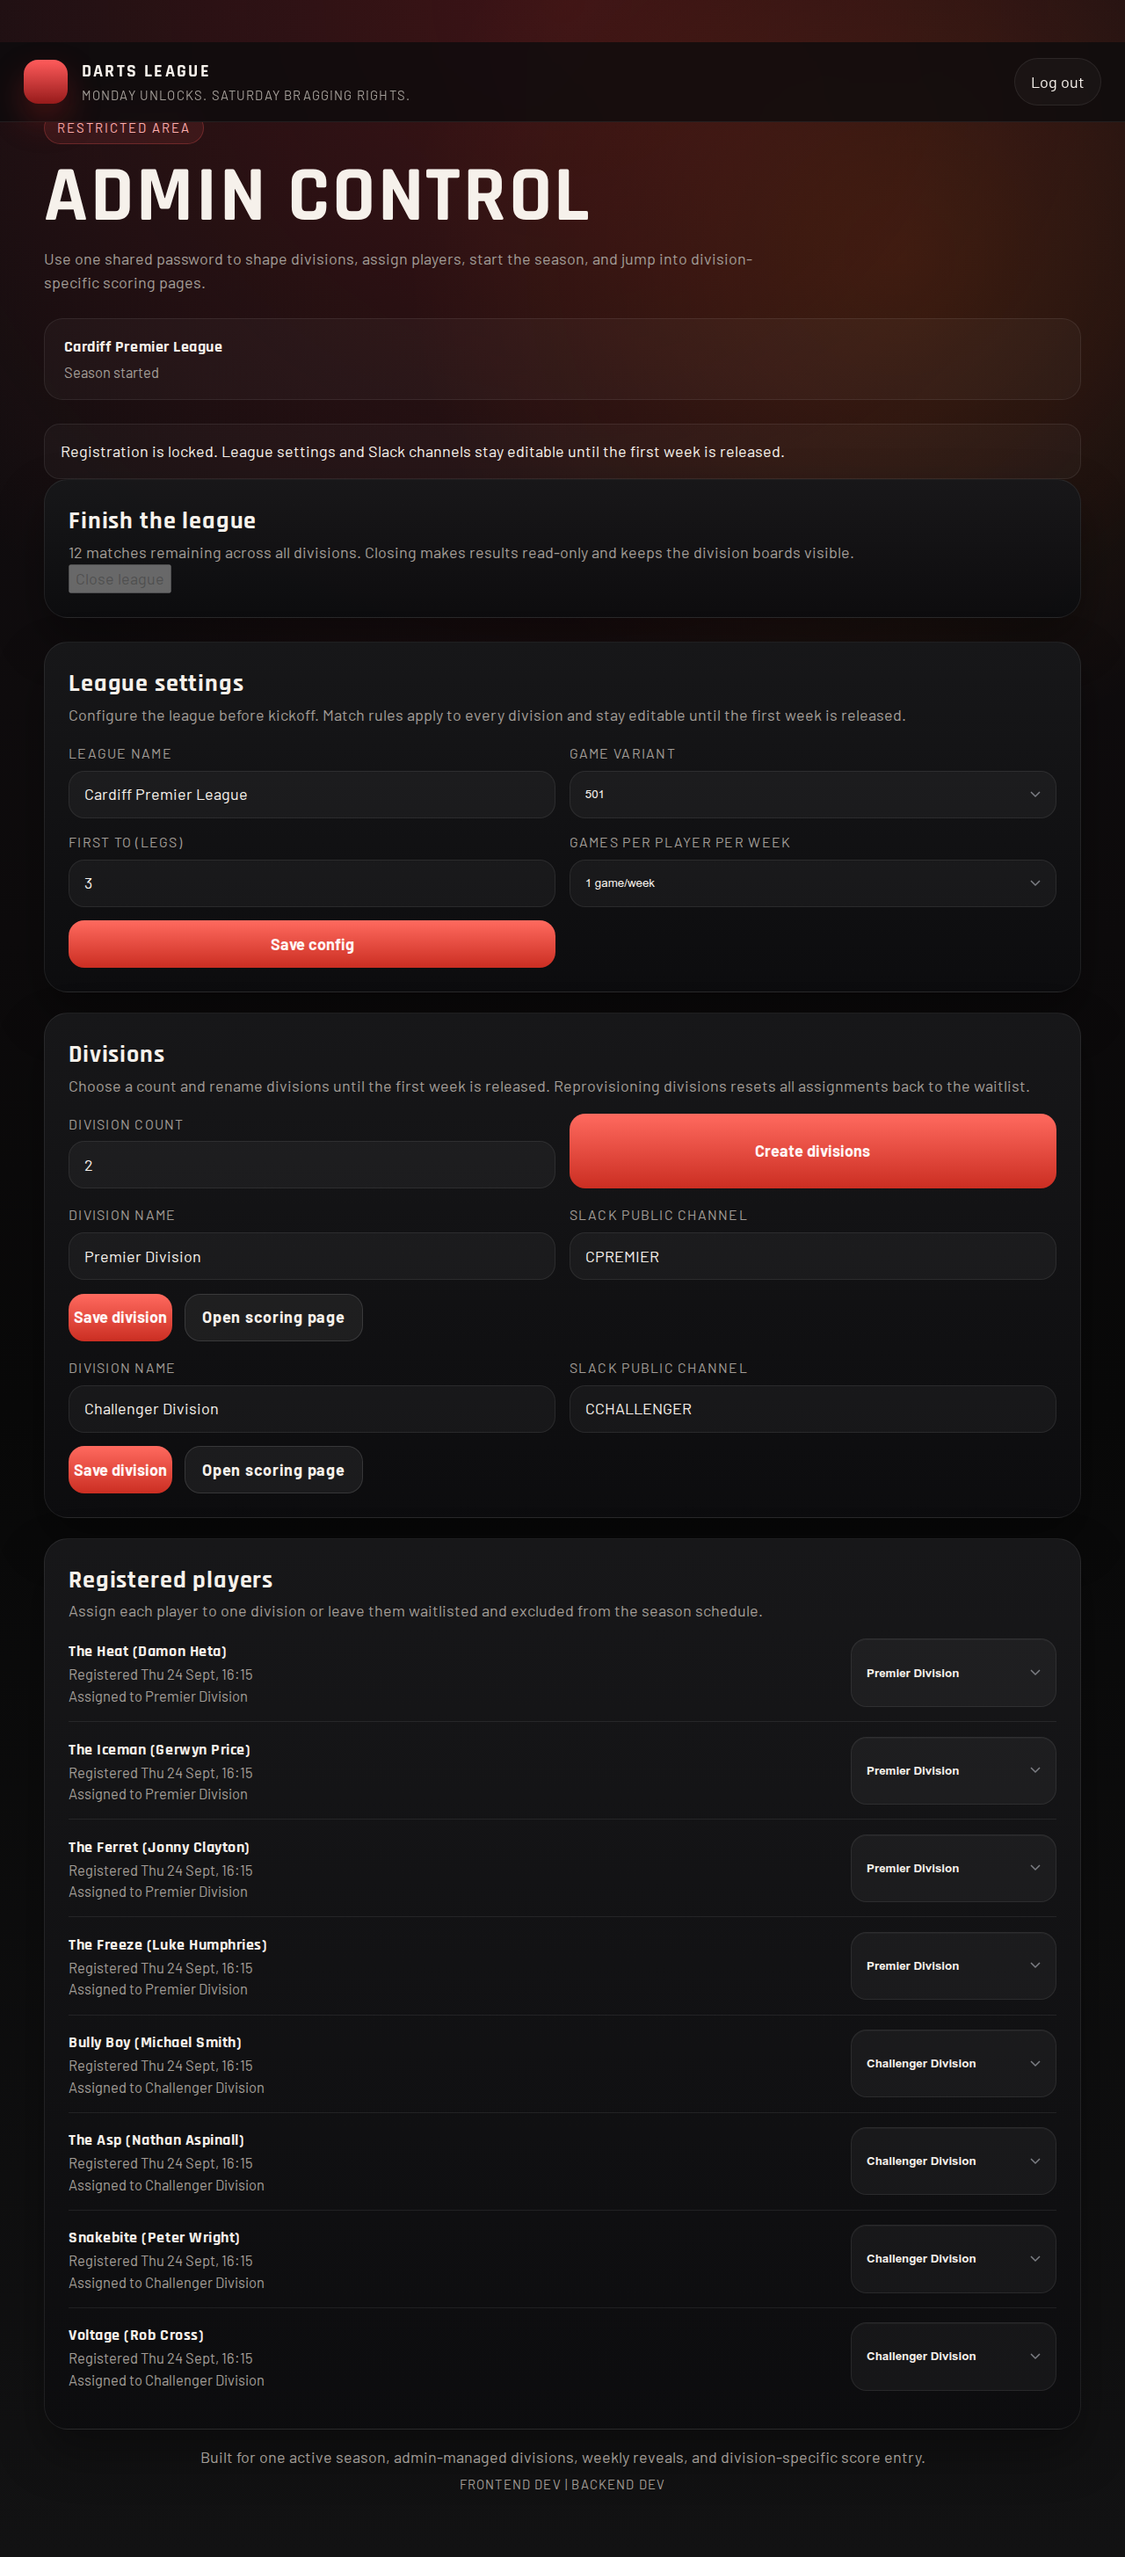
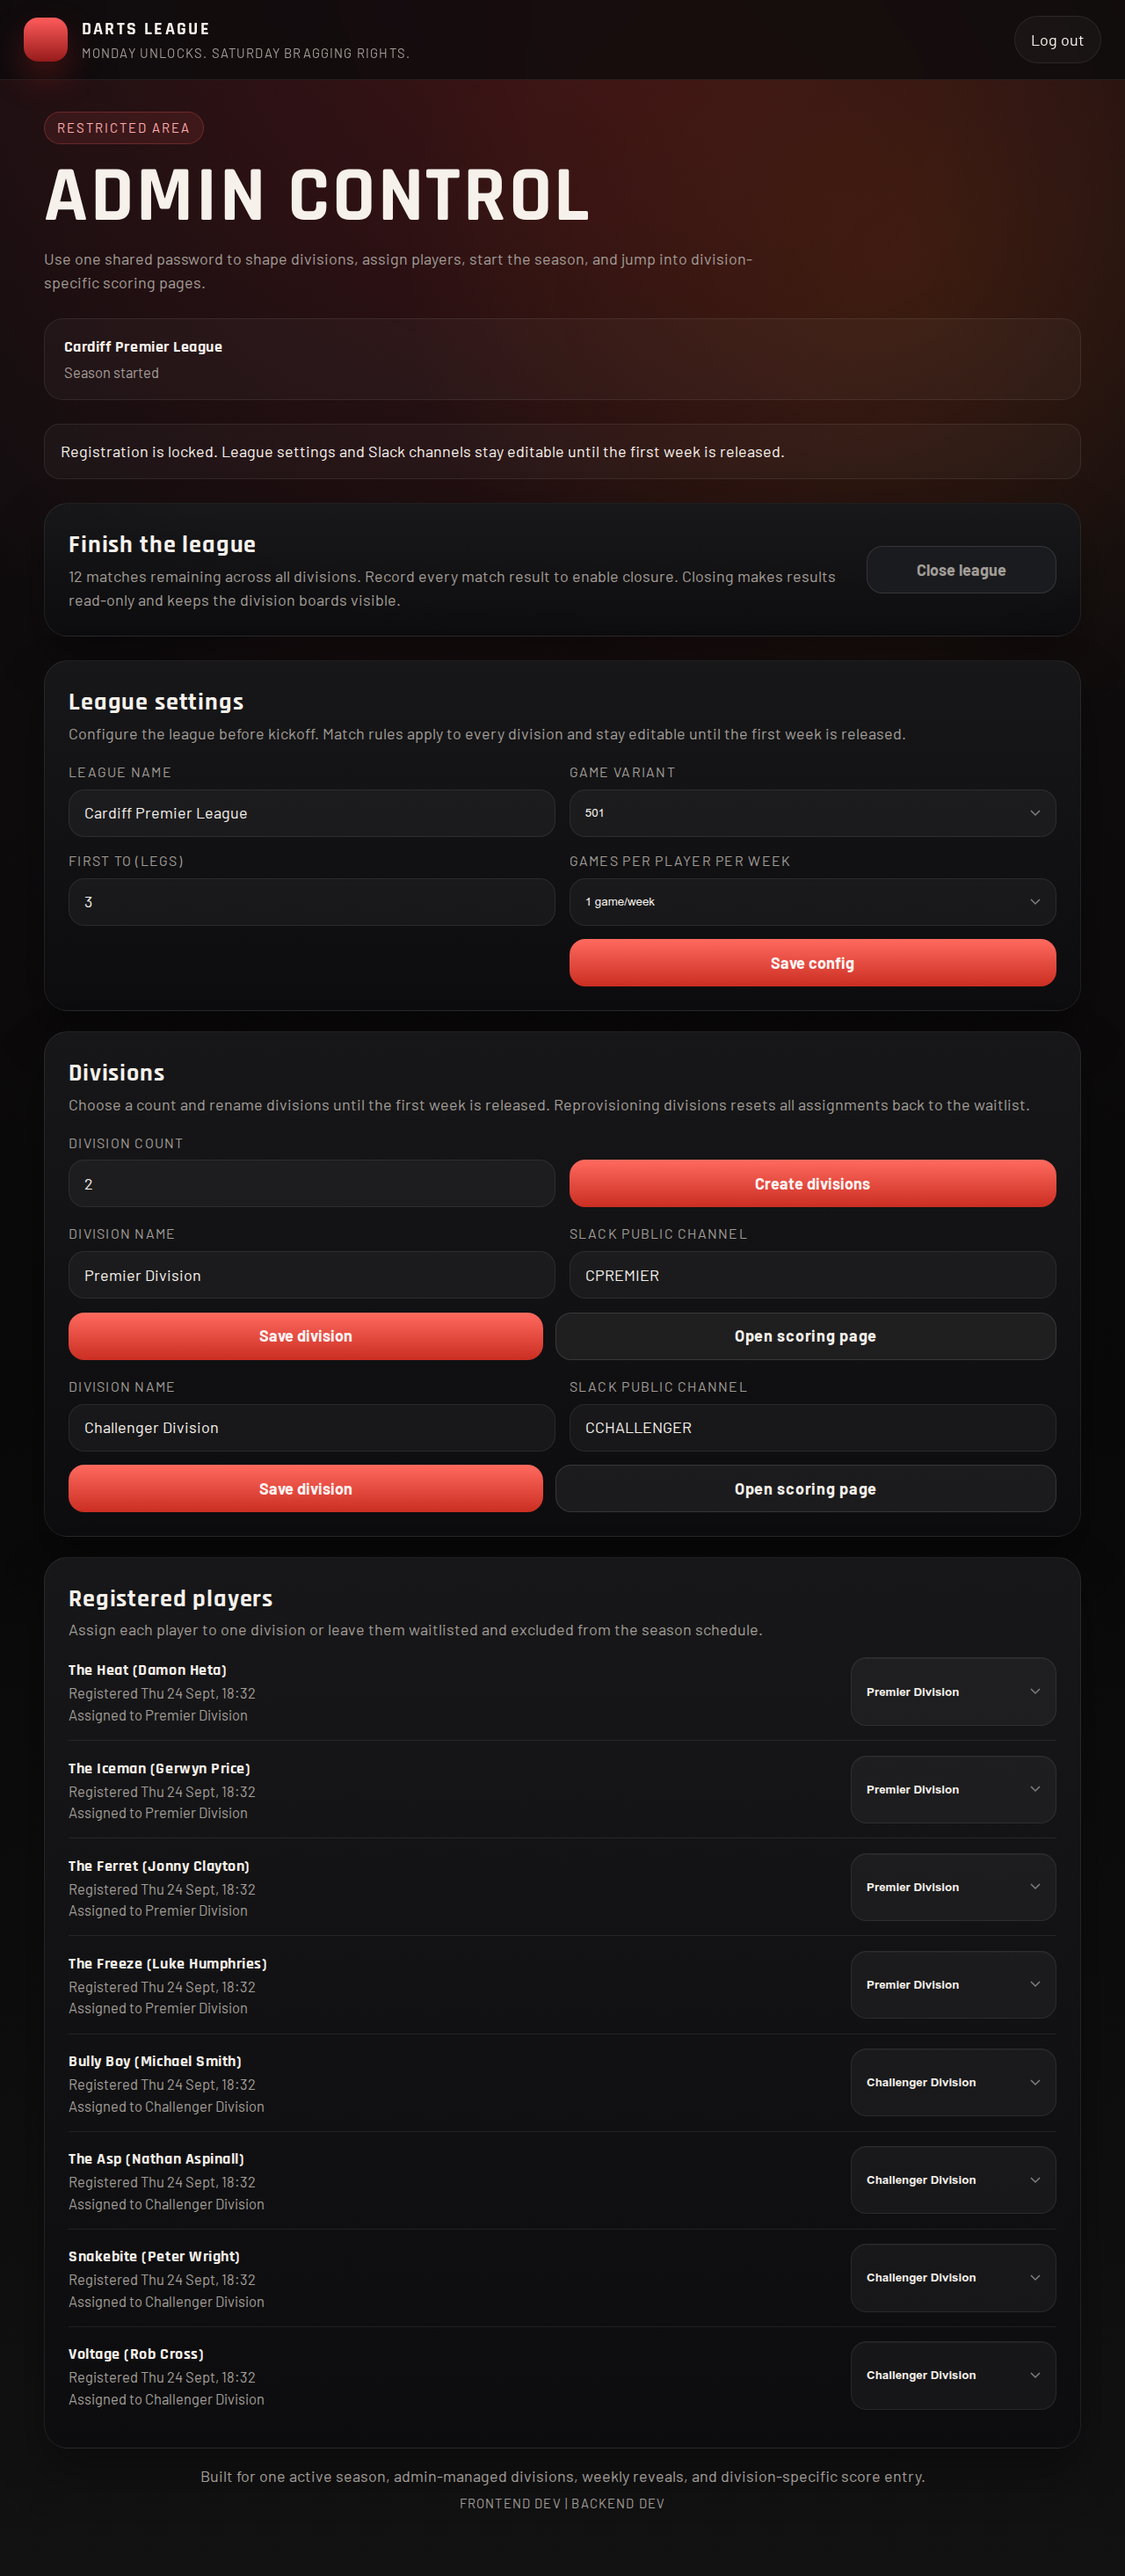
Updating the UI making things more consistent

diff --git a/frontend/tests/smoke.spec.ts b/frontend/tests/smoke.spec.ts
@@ -4,6 +4,7 @@ import { execSync } from 'node:child_process'
 import { fileURLToPath } from 'node:url'
 
 import { expect, test, type Page } from '@playwright/test'
+import { expectAdminActionLayout, expectMatchingControlHeights, expectMatchingDivisionWidths } from './form-control-checks'
 
 const captureUiScreenshots = process.env.CAPTURE_UI_SCREENSHOTS === '1'
 const currentDirectory = path.dirname(fileURLToPath(import.meta.url))
@@ -64,13 +65,16 @@ test('register, assign divisions, start season, enter result, and view division 
   }
 
   await captureScreenshot(page, 'register-open.png')
+  await expectMatchingControlHeights(page)
 
   await page.goto('/admin')
   await page.getByLabel('Username').fill('admin')
   await page.getByLabel('Password').fill('change-me')
+  await expectMatchingControlHeights(page)
   await page.getByRole('button', { name: /unlock admin tools/i }).click()
 
   await expect(page.getByRole('heading', { name: /league settings/i })).toBeVisible()
+  await expectMatchingControlHeights(page)
   await page.getByLabel('League name').fill(leagueName)
   await page.getByRole('button', { name: /save config/i }).click()
   await expect(page.getByText(leagueName)).toBeVisible()
@@ -97,10 +101,19 @@ test('register, assign divisions, start season, enter result, and view division 
   }
 
   await captureScreenshot(page, 'admin-pre-start.png')
+  await expectMatchingControlHeights(page)
+  await expectAdminActionLayout(page)
+  await expectMatchingDivisionWidths(page)
 
   await page.getByRole('button', { name: /start season/i }).click()
   await expect(page.getByText(/registration is locked/i)).toBeVisible()
   await expect(page.getByRole('button', { name: /start season/i })).toHaveCount(0)
+  const unavailableClose = page.getByRole('button', { name: 'Close league', exact: true })
+  await expect(unavailableClose).toBeDisabled()
+  await expect(unavailableClose).toHaveCSS('background-image', 'none')
+  await expect(unavailableClose).toHaveCSS('cursor', 'not-allowed')
+  const closeWidth = await unavailableClose.evaluate((button) => button.getBoundingClientRect().width / parseFloat(getComputedStyle(document.documentElement).fontSize))
+  expect(closeWidth).toBeGreaterThanOrEqual(12)
   await captureScreenshot(page, 'admin-post-start.png')
 
   await page.goto('/admin/divisions/division-1')
@@ -185,6 +198,22 @@ test('register, assign divisions, start season, enter result, and view division 
   }
   await page.goto('/admin')
   await expect(page.getByRole('button', { name: 'Close league' })).toBeEnabled()
+  await expect(page.getByRole('button', { name: 'Close league' })).toHaveCSS('background-image', /linear-gradient/)
+  const closeBounds = await page.getByRole('button', { name: 'Close league' }).boundingBox()
+  const helpBounds = await page.locator('#close-league-help').boundingBox()
+  if (!closeBounds || !helpBounds) throw new Error('Close controls must be visible')
+  expect(closeBounds.x).toBeGreaterThanOrEqual(helpBounds.x + helpBounds.width)
+  const lifecycleGaps = await page.getByRole('region', { name: 'Season lifecycle' }).evaluate((card) => {
+    const previous = card.previousElementSibling
+    const next = card.nextElementSibling
+    if (!previous || !next) throw new Error('Expected surrounding admin sections')
+    return {
+      above: card.getBoundingClientRect().top - previous.getBoundingClientRect().bottom,
+      below: next.getBoundingClientRect().top - card.getBoundingClientRect().bottom,
+    }
+  })
+  expect(lifecycleGaps.below).toBeGreaterThan(0)
+  expect(lifecycleGaps.above).toBeCloseTo(lifecycleGaps.below)
   page.once('dialog', (dialog) => dialog.dismiss())
   await page.getByRole('button', { name: 'Close league' }).click()
   await expect(page.getByRole('button', { name: 'Close league' })).toBeEnabled()
@@ -195,6 +224,11 @@ test('register, assign divisions, start season, enter result, and view division 
   await expect(page.getByRole('heading', { name: 'League completed' })).toBeVisible()
   for (const width of [375, 768, 1280]) {
     await page.setViewportSize({ width, height: 900 })
+    const nextName = await page.getByLabel('Next league name').boundingBox()
+    const openRegistration = await page.getByRole('button', { name: 'Open next season registration' }).boundingBox()
+    if (!nextName || !openRegistration) throw new Error('Next-season controls must be visible')
+    expect(Math.abs(openRegistration.height - nextName.height)).toBeLessThan(1)
+    expect(Math.abs(openRegistration.width - nextName.width)).toBeLessThan(1)
     await captureScreenshot(page, `admin-completed-${width}.png`)
     expect(await page.evaluate(() => document.documentElement.scrollWidth <= window.innerWidth)).toBe(true)
   }
@@ -215,6 +249,8 @@ test('register, assign divisions, start season, enter result, and view division 
   }
   await page.goto('/')
   await expect(page.getByText('League completed. Final results remain available.')).toBeVisible()
+  await expect(page.getByRole('heading', { name: "View the previous league's scores here" })).toBeVisible()
+  await expect(page.getByText('Monday 09:00 unlocks')).toHaveCount(0)
   await page.goto('/admin')
   await page.getByLabel('Next league name').fill('Next League')
   page.once('dialog', (dialog) => dialog.accept())

diff --git a/frontend/tests/form-control-checks.ts b/frontend/tests/form-control-checks.ts
@@ -1,0 +1,51 @@
+import { expect, type Page } from '@playwright/test'
+
+export async function expectMatchingControlHeights(page: Page) {
+  for (const width of [375, 768, 1280]) {
+    await page.setViewportSize({ width, height: 900 })
+    const controls = await page.locator('form.admin-login, form.form-preview, .toolbar-actions:has(select)').evaluateAll((groups) => groups.flatMap((group) => {
+      const input = group.querySelector('input, select')
+      if (!input) return []
+      return [...group.querySelectorAll('button')].map((button) => ({
+        label: button.textContent?.trim(),
+        inputHeight: input.getBoundingClientRect().height,
+        buttonHeight: button.getBoundingClientRect().height,
+      }))
+    }))
+    expect(controls.length).toBeGreaterThan(0)
+    for (const control of controls) {
+      expect(Math.abs(control.inputHeight - control.buttonHeight), `${control.label} at ${width}px`).toBeLessThan(1)
+    }
+  }
+}
+
+export async function expectAdminActionLayout(page: Page) {
+  const saveRightGap = await page.getByRole('button', { name: 'Save config' }).evaluate((button) => {
+    const form = button.closest('form')
+    if (!form) throw new Error('Expected settings form')
+    return form.getBoundingClientRect().right - button.getBoundingClientRect().right
+  })
+  expect(Math.abs(saveRightGap)).toBeLessThan(1)
+  const startWidth = await page.getByRole('button', { name: 'Start season' }).evaluate((button) => button.getBoundingClientRect().width / parseFloat(getComputedStyle(document.documentElement).fontSize))
+  expect(startWidth).toBeGreaterThanOrEqual(12)
+  const divisionWidths = await page.getByRole('link', { name: 'Open scoring page' }).evaluateAll((links) => links.map((link) => {
+    const actions = link.parentElement
+    const form = link.closest('form')
+    if (!actions || !form) throw new Error('Expected division action row')
+    return { row: actions.getBoundingClientRect().width, form: form.getBoundingClientRect().width, filled: [...actions.children].reduce((width, action) => width + action.getBoundingClientRect().width, 0) + parseFloat(getComputedStyle(actions).columnGap) }
+  }))
+  expect(divisionWidths.length).toBeGreaterThan(0)
+  for (const widths of divisionWidths) {
+    expect(Math.abs(widths.row - widths.form)).toBeLessThan(1)
+    expect(Math.abs(widths.filled - widths.row)).toBeLessThan(1)
+  }
+}
+
+export async function expectMatchingDivisionWidths(page: Page) {
+  for (const width of [375, 768, 1024, 1280]) {
+    await page.setViewportSize({ width, height: 900 })
+    const widths = await page.locator('#division-count, input[id^="division-name-"], input[id^="division-slack-"]').evaluateAll((inputs) => inputs.map((input) => input.getBoundingClientRect().width))
+    expect(widths.length).toBeGreaterThanOrEqual(5)
+    expect(Math.max(...widths) - Math.min(...widths), `Division field widths at ${width}px`).toBeLessThan(1)
+  }
+}

diff --git a/frontend/src/pages/admin/AdminPage.tsx b/frontend/src/pages/admin/AdminPage.tsx
@@ -111,7 +111,7 @@ export function AdminPage() {
             </div>
             <div className="toolbar-actions">
               {seasonQuery.data?.can_start_season ? (
-                <button type="button" onClick={() => seasonStartMutation.mutate()} disabled={seasonStartMutation.isPending || (seasonQuery.data?.assigned_count ?? 0) < 2}>{seasonStartMutation.isPending ? 'Starting season...' : 'Start season'}</button>
+                <button className="season-start-button" type="button" onClick={() => seasonStartMutation.mutate()} disabled={seasonStartMutation.isPending || (seasonQuery.data?.assigned_count ?? 0) < 2}>{seasonStartMutation.isPending ? 'Starting season...' : 'Start season'}</button>
               ) : null}
             </div>
           </section>
@@ -161,7 +161,7 @@ export function AdminPage() {
                   </select>
                 </div>
                 {seasonQuery.data?.can_edit_settings ? (
-                  <button type="submit" disabled={updateSeasonMutation.isPending || updateConfigMutation.isPending}>{updateSeasonMutation.isPending || updateConfigMutation.isPending ? 'Saving...' : 'Save config'}</button>
+                  <button className="save-config-button" type="submit" disabled={updateSeasonMutation.isPending || updateConfigMutation.isPending}>{updateSeasonMutation.isPending || updateConfigMutation.isPending ? 'Saving...' : 'Save config'}</button>
                 ) : null}
               </form>
               {updateSeasonMutation.error ? <StateNotice tone="error" message={readError(updateSeasonMutation.error)} compact /> : null}
@@ -204,7 +204,7 @@ export function AdminPage() {
                       <label htmlFor={`division-slack-${division.id}`}>Slack public channel</label>
                       <input id={`division-slack-${division.id}`} name={`division-slack-${division.id}`} defaultValue={division.slack_public_channel_id ?? ''} disabled={!seasonQuery.data?.can_edit_division_channel} />
                     </div>
-                    <div className="toolbar-actions">
+                    <div className="toolbar-actions division-actions">
                      {seasonQuery.data?.can_edit_divisions ? (
                        <button type="submit" disabled={updateDivisionMutation.isPending}>{updateDivisionMutation.isPending ? 'Saving...' : 'Save division'}</button>
                      ) : null}

diff --git a/frontend/src/pages/admin/SeasonLifecycle.tsx b/frontend/src/pages/admin/SeasonLifecycle.tsx
@@ -12,15 +12,19 @@ export function SeasonLifecycle({ season }: { readonly season: SeasonSummary }) 
   if (season.status === 'registration_open') return null
 
   return (
-    <section className="admin-card" aria-label="Season lifecycle">
+    <section className="admin-card season-lifecycle" aria-label="Season lifecycle">
       {season.status === 'started' ? (
-        <>
-          <h2>Finish the league</h2>
-          <p id="close-league-help">{season.remaining_fixtures} match{season.remaining_fixtures === 1 ? '' : 'es'} remaining across all divisions. Closing makes results read-only and keeps the division boards visible.</p>
-          <button type="button" aria-describedby="close-league-help" disabled={!season.can_close_season || close.isPending} onClick={() => {
-            if (window.confirm('Close this league? All divisions and results become read-only. Results stay visible until the next season registration opens. This cannot be undone.')) close.mutate({ season_id: season.id })
-          }}>{close.isPending ? 'Closing league...' : 'Close league'}</button>
-        </>
+        <div className="card-header">
+          <div className="card-copy">
+            <h2>Finish the league</h2>
+            <p id="close-league-help">{season.remaining_fixtures} match{season.remaining_fixtures === 1 ? '' : 'es'} remaining across all divisions. {!season.can_close_season ? 'Record every match result to enable closure. ' : ''}Closing makes results read-only and keeps the division boards visible.</p>
+          </div>
+          <div className="toolbar-actions season-close-actions">
+            <button className="season-close-button" type="button" aria-describedby="close-league-help" disabled={!season.can_close_season || close.isPending} onClick={() => {
+              if (window.confirm('Close this league? All divisions and results become read-only. Results stay visible until the next season registration opens. This cannot be undone.')) close.mutate({ season_id: season.id })
+            }}>{close.isPending ? 'Closing league...' : 'Close league'}</button>
+          </div>
+        </div>
       ) : (
         <>
           <h2>League completed</h2>

diff --git a/frontend/src/pages/home/HomePage.test.tsx b/frontend/src/pages/home/HomePage.test.tsx
@@ -45,6 +45,26 @@ describe('Home page', () => {
     expect(screen.getByText(/voltage/i)).toBeInTheDocument()
   })
 
+  it.each([false, true])('shows previous-league boards after every match is played (closed: %s)', async (seasonCompleted) => {
+    vi.stubGlobal('fetch', createMockFetch({ authenticated: false, seasonStarted: true, seasonCompleted, remainingFixtures: 0, seasonName: 'Finished League' }))
+    renderApp('/')
+
+    expect(await screen.findByRole('heading', { name: "View the previous league's scores here" })).toBeInTheDocument()
+    expect(screen.queryByText('Monday 09:00 unlocks')).not.toBeInTheDocument()
+    expect(screen.queryByText('Final standings')).not.toBeInTheDocument()
+    expect(screen.queryByRole('heading', { name: 'Public division boards' })).not.toBeInTheDocument()
+    expect(screen.getAllByRole('link', { name: 'View standings' })).toHaveLength(2)
+  })
+
+  it('keeps the weekly unlock notice while matches remain', async () => {
+    vi.stubGlobal('fetch', createMockFetch({ authenticated: false, seasonStarted: true, remainingFixtures: 1, seasonName: 'Live League' }))
+    renderApp('/')
+
+    expect(await screen.findByText('season live across 2 divisions.')).toBeInTheDocument()
+    expect(screen.getByRole('heading', { name: 'Public division boards' })).toBeInTheDocument()
+    expect(screen.getByText('Monday 09:00 unlocks')).toBeInTheDocument()
+  })
+
   it('lets a player search their remaining unplayed fixtures inside a division', async () => {
     renderApp('/divisions/premier')
 

diff --git a/frontend/src/pages/home/HomePage.tsx b/frontend/src/pages/home/HomePage.tsx
@@ -6,6 +6,8 @@ import { readError } from '../../lib/utils'
 export function HomePage() {
   const seasonQuery = useSeasonSummary()
   const divisionsQuery = useDivisions()
+  const season = seasonQuery.data
+  const leagueFinished = season?.status === 'completed' || (season?.status === 'started' && season.total_fixtures > 0 && season.remaining_fixtures === 0)
 
   return (
     <>
@@ -41,9 +43,9 @@ export function HomePage() {
         <div className="card-header">
           <div className="card-copy">
             <span className="section-eyebrow">Division list</span>
-            <h2>Public division boards</h2>
+            <h2>{leagueFinished ? "View the previous league's scores here" : 'Public division boards'}</h2>
           </div>
-          <span className="status-pill live">{seasonQuery.data?.status === 'completed' ? 'Final standings' : 'Monday 09:00 unlocks'}</span>
+          {!leagueFinished ? <span className="status-pill live">Monday 09:00 unlocks</span> : null}
         </div>
         {divisionsQuery.isLoading ? <StateNotice message="Loading divisions..." /> : null}
         {divisionsQuery.error ? <StateNotice tone="error" message={readError(divisionsQuery.error)} /> : null}

diff --git a/frontend/src/App.css b/frontend/src/App.css
@@ -689,6 +689,27 @@
   margin-top: 1rem;
 }
 
+.admin-login button {
+  align-self: end;
+}
+
+.save-config-button {
+  grid-column: -2 / -1;
+}
+
+.season-start-button {
+  min-width: 12rem;
+}
+
+.division-actions {
+  grid-column: 1 / -1;
+}
+
+.division-actions > * {
+  flex: 1;
+  white-space: nowrap;
+}
+
 .admin-login button,
 .form-preview button,
 .score-form button,
@@ -745,6 +766,26 @@
   display: flex;
   gap: 0.75rem;
   flex-wrap: wrap;
+}
+
+.season-close-actions {
+  flex-shrink: 0;
+  align-self: center;
+}
+
+.season-close-button {
+  min-width: clamp(8rem, 20vw, 12rem);
+}
+
+.season-close-button:disabled {
+  color: var(--color-muted);
+  background: var(--color-surface-raised);
+  border: 1px solid rgba(255, 255, 255, 0.12);
+  cursor: not-allowed;
+}
+
+.season-lifecycle {
+  margin-top: 1.5rem;
 }
 
 .toolbar-actions .secondary-button {
